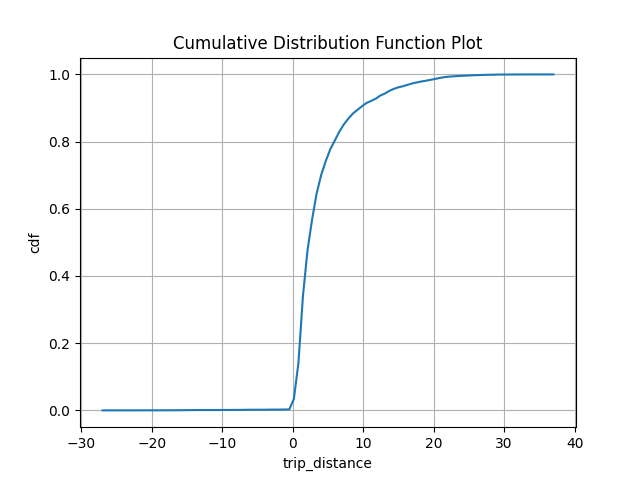
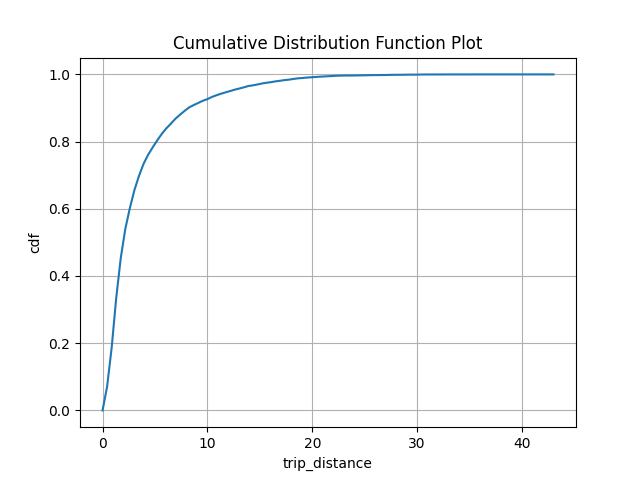
New plot.

diff --git a/plot_cdf.py b/plot_cdf.py
@@ -26,13 +26,13 @@ if __name__ == "__main__":
         query = file_.read().replace('{table}', TABLE_NAME)
         DBConnection.execute_query(query)
 
-    #result = DBConnection.execute_query(
-    #    "SELECT * from calc_cdf(ARRAY ['2019-12-18'::date, '2020-01-03'::date]);", True)
-    #show_result(result, 'results/cdf_window.png')
+    result = DBConnection.execute_query(
+        "SELECT * from calc_cdf(ARRAY ['2019-12-18'::date, '2020-01-03'::date]);", True)
+    show_result(result, 'results/cdf_window.png')
 
     result = DBConnection.execute_query(
-        "SELECT * from calc_cdf(ARRAY ['2020-01-03'::date, '2020-01-04'::date]);", True)
+        "SELECT * from calc_cdf(ARRAY ['2020-01-29'::date, '2020-01-30'::date]);", True)
     show_result(result, 'results/cdf_window2.png')
 
-    #result = DBConnection.execute_query("SELECT * from calc_cdf();", True)
-    #show_result(result, 'results/cdf_all.png')
+    result = DBConnection.execute_query("SELECT * from calc_cdf();", True)
+    show_result(result, 'results/cdf_all.png')
